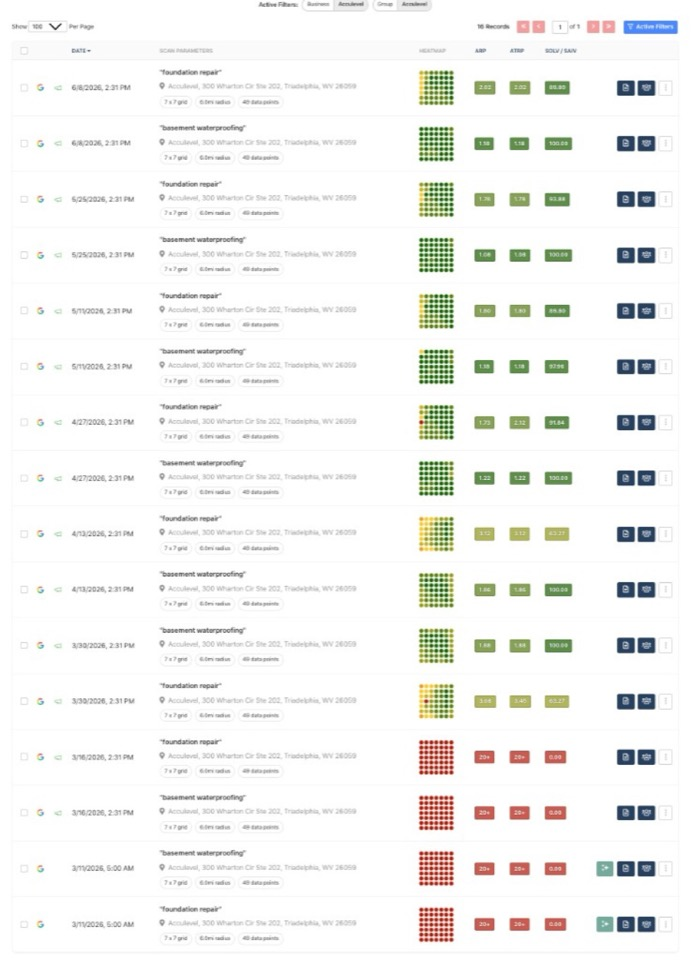
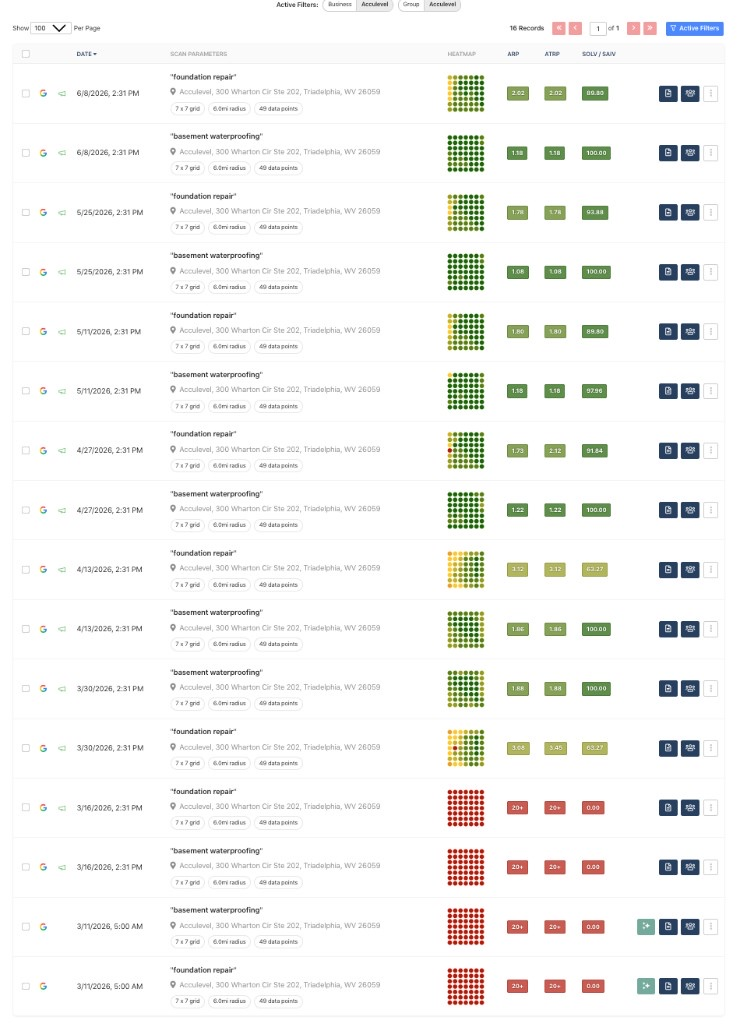
Sharpen Acculevel scan assets and add Affiliate vs Partner presentation modes.
Use full-resolution LocalFalcon screenshots with contain sizing, and differentiate affiliate (20% / 12 months) from partner (15% residual while active).

diff --git a/assets/jcp-sales-tool/app.js b/assets/jcp-sales-tool/app.js
@@ -1,7 +1,8 @@
 (() => {
   const cfg = window.JCP_SALES_TOOL || {};
   const assetBase = (cfg.assetBase || "").replace(/\/$/, "");
-  const img = (name) => `${assetBase}/assets/${name}`;
+  const assetVer = "20260812c";
+  const img = (name) => `${assetBase}/assets/${name}?v=${assetVer}`;
   const plans = cfg.plans || {};
   const reviews = Array.isArray(cfg.reviews) ? cfg.reviews : [];
   const cta = cfg.cta || {};
@@ -24,7 +25,7 @@
   const defaults = {
     prospectName: prospectSeed.company || "",
     repName: (cfg.presenter && cfg.presenter.name) || "",
-    mode: prospectSeed.mode === "partner" ? "partner" : "contractor",
+    mode: ["partner", "affiliate"].includes(prospectSeed.mode) ? prospectSeed.mode : "contractor",
     trade: prospectSeed.trade || "Home services",
     showPricing: cfg.flags ? !!cfg.flags.showPricing : true,
     showAcculevel: cfg.flags ? !!cfg.flags.showAcculevel : true,
@@ -179,29 +180,84 @@
     };
   }
 
+  function isPartner() {
+    return state.mode === "partner";
+  }
+  function isAffiliate() {
+    return state.mode === "affiliate";
+  }
+  function isChannelPartner() {
+    return isPartner() || isAffiliate();
+  }
+
+  /** Affiliate = 20% x 12 months. Partner = 15% residual while customer stays active. */
+  function commissionRows() {
+    const rows = [
+      { plan: "Starter", monthly: 99 },
+      { plan: "Scale", monthly: 249 },
+      { plan: "Enterprise", monthly: 399 },
+    ];
+    if (isAffiliate()) {
+      return rows.map((r) => ({
+        ...r,
+        rate: "20%",
+        monthlyPay: `$${(r.monthly * 0.2).toFixed(2)}`,
+        term: "12 months",
+        potential: `$${(r.monthly * 0.2 * 12).toFixed(2)}`,
+      }));
+    }
+    return rows.map((r) => ({
+      ...r,
+      rate: "15%",
+      monthlyPay: `$${(r.monthly * 0.15).toFixed(2)}`,
+      term: "While customer is active",
+      potential: `$${(r.monthly * 0.15).toFixed(2)}/mo ongoing`,
+    }));
+  }
+
   function renderCover() {
-    const partner = state.mode === "partner";
+    const partner = isPartner();
+    const affiliate = isAffiliate();
     const title = partner
       ? `Give every client a proof engine that creates <em>more calls.</em>`
-      : `Turn every completed job into <em>more calls.</em>`;
-    const company = state.prospectName || (partner ? "your clients" : "your team");
+      : affiliate
+        ? `Earn recurring commissions by helping contractors turn jobs into <em>marketing.</em>`
+        : `Turn every completed job into <em>more calls.</em>`;
+    const company = state.prospectName || (partner ? "your clients" : affiliate ? "contractors you know" : "your team");
+    const body = partner
+      ? `${esc(company)} already take job photos. JobCapturePro turns that activity into website, Google, social, and directory proof — plus an on-site QR review ask — so you can deliver visibility without becoming their content team.`
+      : affiliate
+        ? `Refer contractors and home-service businesses to JobCapturePro and earn <strong>20% recurring commission for 12 months</strong> when they become paid customers. It’s an easy recommend: they already finish jobs and take photos — JCP makes that proof show up online.`
+        : `${esc(company)} already takes job photos. JobCapturePro turns them into Google updates, website content, social posts, and directory listings — then your crew asks for a review on site with a QR code.`;
+    const eyebrow = partner ? "Partner walkthrough" : affiliate ? "Affiliate program" : "Product walkthrough";
     return `<section class="chapter cover">
     <img class="cover-image" src="${img("jcp-product-visual.png")}" alt="JobCapturePro completed-job publishing workflow" />
     <div class="cover-copy">
-      <span class="eyebrow">${partner ? "Partner walkthrough" : "Product walkthrough"}</span>
+      <span class="eyebrow">${eyebrow}</span>
       <h1>${title}</h1>
-      <p>${esc(company)} already takes job photos. JobCapturePro turns them into Google updates, website content, social posts, and directory listings — then your crew asks for a review on site with a QR code.</p>
-      <p class="cover-integrations">Already on ${esc(integrationLine())}? We integrate with the tools your crews already use.</p>
+      <p>${body}</p>
+      <p class="cover-integrations">Already on ${esc(integrationLine())}? We integrate with the tools crews already use.</p>
       <button class="start-btn" type="button" data-go="1">See how it works →</button>
     </div>
-    <div class="cover-callout">${state.repName ? `Presented by ${esc(state.repName)} · ` : ""}${esc(state.prospectName || (partner ? "Partner overview" : "Prospect presentation"))}</div>
+    <div class="cover-callout">${state.repName ? `Presented by ${esc(state.repName)} · ` : ""}${esc(state.prospectName || (partner ? "Partner overview" : affiliate ? "Affiliate overview" : "Prospect presentation"))}</div>
   </section>`;
   }
 
   function renderProblem() {
-    const partner = state.mode === "partner";
+    const partner = isPartner();
+    const affiliate = isAffiliate();
+    const title = partner
+      ? "Your clients already have the content."
+      : affiliate
+        ? "The people you refer already have the content."
+        : "You already have the content.";
+    const intro = partner
+      ? `Completed jobs rarely become consistent, location-specific marketing for the ${esc(state.trade.toLowerCase())} clients you serve.`
+      : affiliate
+        ? `Most ${esc(state.trade.toLowerCase())} teams already finish jobs and take photos — but that proof never becomes website content, Google activity, directory presence, or a timely review ask.`
+        : `For ${esc(state.trade.toLowerCase())} teams, completed jobs rarely make it from the camera roll to the places customers decide who to call.`;
     return `<section class="chapter content-pad">
-    ${chapterHeader(2, "The missed opportunity", partner ? "Your clients already have the content." : "You already have the content.", partner ? `Completed jobs rarely become consistent, location-specific marketing for the ${esc(state.trade.toLowerCase())} clients you serve.` : `For ${esc(state.trade.toLowerCase())} teams, completed jobs rarely make it from the camera roll to the places customers decide who to call.`)}
+    ${chapterHeader(2, "The missed opportunity", title, intro)}
     <div class="problem-layout">
       <div class="problem-statement">One real job can become proof in <em>five places.</em></div>
       <div class="channel-stack">
@@ -302,7 +358,7 @@
       full: img("acculevel-localfalcon-monroe-scans.webp"),
       fullFallback: img("acculevel-localfalcon-monroe-scans.jpg"),
       headline: "0% → ~96%",
-      detail: "Monroe scans show the same arc: March grids at 0% SoLV, then steady gains through spring. Latest supplied scans reached approximately 96% SoLV for basement waterproofing and ~84% for foundation repair.",
+      detail: "Monroe LocalFalcon scans move from all-red 0% SoLV in March 2026 to strong green coverage by June — latest supplied scans reached about 96% SoLV for basement waterproofing and ~84% for foundation repair.",
     },
   };
 
@@ -377,23 +433,60 @@
   function renderPlan() {
     const plan = recommendPlan();
     const pricingLink = cfg.pricingUrl || "/pricing/";
-    const partnerRollout =
-      state.mode === "partner"
-        ? `<aside class="recommendation">
-        <span class="plan-kicker">Recommended motion</span><h3>Partner rollout</h3><p class="plan-reason">Prove one repeatable client workflow, document the result, then expand.</p>
-        <div class="partner-path"><div class="partner-step"><span>Phase 01</span><h4>Pilot</h4><p>Select a focused cohort and confirm integrations.</p></div><div class="partner-step"><span>Phase 02</span><h4>Prove</h4><p>Track check-ins, publishing, reviews, and Maps visibility.</p></div><div class="partner-step"><span>Phase 03</span><h4>Expand</h4><p>Turn the working motion into a repeatable partner offer.</p></div></div>
-        <p class="plan-note">Partner economics require a scoped proposal.</p>
-      </aside>`
-        : `<aside class="recommendation">
+    const referralUrl = "/referral-program/";
+    const rows = commissionRows();
+    const commissionTable = `<div class="commission-table" role="table" aria-label="Commission examples">
+        <div class="commission-row commission-row--head" role="row"><span>Plan</span><span>Price</span><span>Your cut</span><span>Term</span></div>
+        ${rows.map((r) => `<div class="commission-row" role="row"><span>${r.plan}</span><span>$${r.monthly}/mo</span><span>${r.monthlyPay}/mo</span><span>${r.term}</span></div>`).join("")}
+      </div>`;
+
+    let aside;
+    if (isAffiliate()) {
+      aside = `<aside class="recommendation">
+        <span class="plan-kicker">Affiliate program</span><h3>20% for 12 months</h3>
+        <p class="plan-reason">Share your referral link. When a contractor becomes a paid customer, you earn 20% recurring commission for 12 months on that account.</p>
+        ${commissionTable}
+        <p class="plan-note">Commissions apply to active paid customers under program terms. Prices stay current on <a href="${esc(pricingLink)}" target="_blank" rel="noopener">our pricing page</a>.</p>
+        <a class="plan-cta" href="${esc(referralUrl)}" target="_blank" rel="noopener">Join the referral program →</a>
+      </aside>`;
+    } else if (isPartner()) {
+      aside = `<aside class="recommendation">
+        <span class="plan-kicker">Strategic partner</span><h3>15% for the life of the account</h3>
+        <p class="plan-reason">Partners who sell and support JobCapturePro with clients earn <strong>15% recurring commission for as long as the customer remains an active paid account</strong> — healthier than 20% forever, stronger than a 12-month affiliate cut when you’re doing the heavy lifting.</p>
+        ${commissionTable}
+        <div class="partner-path" style="margin-top:16px"><div class="partner-step"><span>Phase 01</span><h4>Pilot</h4><p>Select a focused client cohort and confirm integrations.</p></div><div class="partner-step"><span>Phase 02</span><h4>Prove</h4><p>Track check-ins, publishing, reviews, and Maps visibility.</p></div><div class="partner-step"><span>Phase 03</span><h4>Expand</h4><p>Turn the working motion into a repeatable partner offer.</p></div></div>
+        <p class="plan-note">Enhanced partner terms are scoped by fit and volume. Apply via the referral program and note you’re a strategic partner.</p>
+        <a class="plan-cta" href="${esc(referralUrl)}" target="_blank" rel="noopener">Apply as a partner →</a>
+      </aside>`;
+    } else {
+      aside = `<aside class="recommendation">
         <span class="plan-kicker">Recommended fit</span><h3>${plan.name}</h3>${state.showPricing ? `<p class="price">${plan.price} <span>/ month</span></p>` : ""}<p class="plan-reason">${plan.reason}</p>
         <ul class="included">${(plan.includes || []).map((x) => `<li>${esc(x)}</li>`).join("")}</ul>
         <p class="plan-note">${state.showPricing ? `Additional locations: $${cfg.extraLocationFee || 100} each. ` : ""}Prices stay current on <a href="${esc(pricingLink)}" target="_blank" rel="noopener">our pricing page</a>.</p>
         <a class="plan-cta" href="${esc(cta.primaryUrl || pricingLink)}" target="_blank" rel="noopener">${esc(cta.primaryLabel || "Start free 14-day trial")} →</a>
       </aside>`;
+    }
+
+    const headline = isAffiliate()
+      ? "Affiliate economics"
+      : isPartner()
+        ? "Partner economics"
+        : "Recommended plan";
+    const sub = isAffiliate()
+      ? "Earn when contractors you refer become customers."
+      : isPartner()
+        ? "Earn while you sell and support the proof engine."
+        : "Match the plan to your workflow.";
+    const lead = isAffiliate()
+      ? "Simple referral economics — 20% recurring for 12 months on paid accounts."
+      : isPartner()
+        ? "For agencies and consultants doing real selling: residual commission while the customer stays active."
+        : "We’ll recommend a plan based on locations and how automated you want this. Prices stay current on our pricing page.";
+
     return `<section class="chapter content-pad">
-    ${chapterHeader(8, state.mode === "partner" ? "Partner rollout" : "Recommended plan", state.mode === "partner" ? "Start focused. Prove the workflow. Expand." : "Match the plan to your workflow.", state.mode === "partner" ? "A controlled rollout connects product, client workflow, and reporting before you expand." : "We’ll recommend a plan based on locations and how automated you want this. Prices stay current on our pricing page.")}
+    ${chapterHeader(8, isAffiliate() || isPartner() ? "Earn with JCP" : "Plan", headline, sub + " " + lead)}
     <div class="plan-layout">
-      <div class="plan-controls">
+      <div class="plan-controls ${isChannelPartner() ? "rep-only" : ""}">
         <div class="field"><span class="field-label">Company stage</span><div class="choice-row">${Object.entries(segments)
           .map(([key, item]) => radioChoice("planSegment", key, item.label, state.segment === key))
           .join("")}</div></div>
@@ -401,7 +494,7 @@
         <div class="field"><span class="field-label">Workflow</span><div class="choice-row">${checkboxChoice("automation", "yes", "Automate from CRM", state.automation)}${checkboxChoice("customIntegration", "yes", "Custom integration / API", state.customIntegration)}</div></div>
         <div class="field"><span class="field-label">Important outcomes</span><div class="choice-row">${["Local visibility", "More reviews", "Faster follow-up", "Consistent content", "Multi-location control"].map((x) => checkboxChoice("planPriorities", x, x, state.priorities.includes(x))).join("")}</div></div>
       </div>
-      ${partnerRollout}
+      ${aside}
     </div>
   </section>`;
   }
@@ -452,15 +545,39 @@
   }
 
   function renderClose() {
-    const company = state.prospectName || "your business";
+    const company = state.prospectName || (isChannelPartner() ? "your network" : "your business");
     const gap = calcGap();
     const plan = recommendPlan();
     const today = new Intl.DateTimeFormat("en", { month: "short", day: "numeric", year: "numeric" }).format(new Date());
-    const path = state.mode === "partner" ? "Partner pilot" : plan.name;
-    const pathDetail = state.mode === "partner" ? "Start with a focused client cohort, prove the workflow, then expand." : plan.reason;
-    const logoSrc = (cfg.presenter && cfg.presenter.logoUrl) || img("jcp-logo-dark.png");
+    const logo = (cfg.presenter && cfg.presenter.logoUrl) || img("jcp-logo-dark.png");
+    let path;
+    let pathDetail;
+    let primaryHref = cta.primaryUrl || "#";
+    let primaryLabel = cta.primaryLabel || "Start free 14-day trial";
+    let secondaryHref = cta.secondaryUrl || cfg.pricingUrl || "/pricing/";
+    let secondaryLabel = cta.secondaryLabel || "See live pricing";
+
+    if (isAffiliate()) {
+      path = "Affiliate referral program";
+      pathDetail = "Earn 20% recurring commission for 12 months on paid referrals.";
+      primaryHref = "/referral-program/";
+      primaryLabel = "Join the referral program";
+      secondaryHref = "/demo/";
+      secondaryLabel = "Share the live demo";
+    } else if (isPartner()) {
+      path = "Strategic partner path";
+      pathDetail = "15% recurring for as long as referred customers stay active — apply as a partner and scope the rollout.";
+      primaryHref = "/referral-program/";
+      primaryLabel = "Apply as a partner";
+      secondaryHref = cfg.pricingUrl || "/pricing/";
+      secondaryLabel = "See live pricing";
+    } else {
+      path = plan.name;
+      pathDetail = plan.reason;
+    }
+
     return `<section class="chapter content-pad">
-    ${chapterHeader(10, "Next steps", "A clear path forward.", "Here’s a one-page summary of what we covered — plus a free trial when you’re ready.")}
+    ${chapterHeader(10, "Next steps", "A clear path forward.", isAffiliate() ? "Get your referral link and start sharing JobCapturePro with contractors who already take job photos." : isPartner() ? "Apply as a strategic partner, pilot one client workflow, then expand." : "Here’s a one-page summary of what we covered — plus a free trial when you’re ready.")}
     <div class="close-layout">
       <div class="close-notes rep-only">
         <div class="field"><label for="nextStep">Agreed next step</label><textarea id="nextStep">${esc(state.nextStep)}</textarea></div>
@@ -468,15 +585,15 @@
         <div class="field"><label for="salesNotes">Call notes</label><textarea id="salesNotes" placeholder="Decision criteria, stakeholders, integration questions…">${esc(state.salesNotes)}</textarea></div>
       </div>
       <article class="recap" id="recap">
-        <div class="recap-top"><div class="brand"><img src="${logoSrc}" alt="JobCapturePro" /></div><span class="recap-date">${today}</span></div>
-        <h3>${esc(state.prospectName || "Your business")} · summary</h3>
-        <h4>What we covered</h4><p>${esc(company)} completes about <strong>${gap.monthly} jobs per month</strong>. Roughly <strong>${gap.unused}</strong> may not be consistently published as public proof today. Focus areas: ${esc(state.priorities.join(", ") || "visibility and proof consistency")}.</p>
-        <h4>Recommended path</h4><p><strong>${path}${state.mode === "contractor" && state.showPricing ? ` · ${plan.price}/month` : ""}.</strong> ${pathDetail}</p>
+        <div class="recap-top"><div class="brand"><img src="${logo}" alt="JobCapturePro" /></div><span class="recap-date">${today}</span></div>
+        <h3>${esc(state.prospectName || (isAffiliate() ? "Affiliate" : isPartner() ? "Partner" : "Your business"))} · summary</h3>
+        <h4>What we covered</h4><p>${isChannelPartner() ? `JobCapturePro turns completed ${esc(state.trade.toLowerCase())} jobs into website, Google, social, and directory proof — plus an on-site QR review ask.` : `${esc(company)} completes about <strong>${gap.monthly} jobs per month</strong>. Roughly <strong>${gap.unused}</strong> may not be consistently published as public proof today.`} Focus areas: ${esc(state.priorities.join(", ") || "visibility and proof consistency")}.</p>
+        <h4>Recommended path</h4><p><strong>${path}${!isChannelPartner() && state.showPricing ? ` · ${plan.price}/month` : ""}.</strong> ${pathDetail}</p>
         <h4>Suggested next step</h4><p id="recapNextStep">${esc(state.nextStep || defaults.nextStep)}${state.followUpDate ? ` Target: ${esc(state.followUpDate)}.` : ""}</p>
         <div id="recapNotesWrap" class="rep-only" ${state.salesNotes ? "" : "hidden"}><h4>Notes</h4><p id="recapNotes">${esc(state.salesNotes)}</p></div>
         <div class="recap-ctas">
-          <a class="plan-cta" href="${esc(cta.primaryUrl || "#")}" target="_blank" rel="noopener">${esc(cta.primaryLabel || "Start free 14-day trial")}</a>
-          <a class="plan-cta plan-cta--secondary" href="${esc(cta.secondaryUrl || cfg.pricingUrl || "/pricing/")}" target="_blank" rel="noopener">${esc(cta.secondaryLabel || "See live pricing")}</a>
+          <a class="plan-cta" href="${esc(primaryHref)}" target="_blank" rel="noopener">${esc(primaryLabel)}</a>
+          <a class="plan-cta plan-cta--secondary" href="${esc(secondaryHref)}" target="_blank" rel="noopener">${esc(secondaryLabel)}</a>
           <button class="plan-cta plan-cta--secondary" type="button" id="downloadPdfBtn">Download PDF summary</button>
         </div>
         <div class="recap-actions rep-only"><button class="copy-btn" id="copyRecap" type="button">Copy summary</button></div>
@@ -500,7 +617,7 @@
     const prospectInput = $("#prospectName");
     if (prospectInput) prospectInput.value = state.prospectName;
     const metaLabel = document.querySelector(".call-meta label");
-    if (metaLabel) metaLabel.textContent = state.mode === "partner" ? "Partner" : "Prospect";
+    if (metaLabel) metaLabel.textContent = isPartner() ? "Partner" : isAffiliate() ? "Affiliate" : "Prospect";
     document.querySelectorAll("[data-mode]").forEach((button) => button.classList.toggle("active", button.dataset.mode === state.mode));
     const list = chapterList();
     $("#progressLabel").textContent = `${String(state.chapter + 1).padStart(2, "0")} / ${String(list.length).padStart(2, "0")}`;

diff --git a/assets/jcp-sales-tool/styles.css b/assets/jcp-sales-tool/styles.css
@@ -336,7 +336,7 @@ input[type="range"] { width: 100%; accent-color: var(--ink); }
   border: 1px solid var(--line);
   border-radius: 10px;
   overflow: hidden;
-  background: var(--white);
+  background: #f3f4f6;
   cursor: zoom-in;
   text-align: left;
 }
@@ -345,9 +345,10 @@ input[type="range"] { width: 100%; accent-color: var(--ink); }
   display: block;
   width: 100%;
   height: auto;
-  max-height: min(58vh, 520px);
-  object-fit: cover;
+  max-height: min(70vh, 720px);
+  object-fit: contain;
   object-position: top center;
+  image-rendering: -webkit-optimize-contrast;
 }
 .scan-preview-hint {
   position: absolute;
@@ -524,10 +525,38 @@ body.is-presenting #scriptBtn {
   text-decoration: none;
 }
 
-button.plan-cta {
-  cursor: pointer;
-  font: inherit;
+.commission-table {
+  margin: 14px 0;
+  border: 1px solid var(--line);
+  border-radius: 10px;
+  overflow: hidden;
+  background: var(--white);
 }
+.commission-row {
+  display: grid;
+  grid-template-columns: 1.1fr 0.9fr 1fr 1.2fr;
+  gap: 8px;
+  padding: 10px 12px;
+  font-size: 12px;
+  border-top: 1px solid var(--line);
+}
+.commission-row:first-child { border-top: 0; }
+.commission-row--head {
+  background: #f3f4f6;
+  font-weight: 800;
+  text-transform: uppercase;
+  letter-spacing: .03em;
+  font-size: 10px;
+  color: #6b7280;
+}
+.plan-layout:has(.plan-controls.rep-only) {
+  grid-template-columns: 1fr;
+}
+body.is-presenting .plan-layout:has(.plan-controls.rep-only) .recommendation {
+  max-width: 720px;
+}
+
+.mode-switch button { white-space: nowrap; }
 
 /* Present mode — screenshare clean */
 body.is-presenting .sidebar,

diff --git a/inc/sales-tool/meta.php b/inc/sales-tool/meta.php
@@ -110,7 +110,7 @@ function jcp_sales_tool_get_settings( int $post_id ): array {
 	$out['presenter_type']      = sanitize_key( (string) ( $out['presenter_type'] ?? 'internal' ) );
 	$out['presenter_name']      = sanitize_text_field( (string) ( $out['presenter_name'] ?? '' ) );
 	$out['presenter_logo_id']   = absint( $out['presenter_logo_id'] ?? 0 );
-	$out['mode']                = in_array( (string) ( $out['mode'] ?? '' ), [ 'contractor', 'partner' ], true ) ? (string) $out['mode'] : 'contractor';
+	$out['mode']                = in_array( (string) ( $out['mode'] ?? '' ), [ 'contractor', 'affiliate', 'partner' ], true ) ? (string) $out['mode'] : 'contractor';
 	$out['company']             = sanitize_text_field( (string) ( $out['company'] ?? '' ) );
 	$out['trade']               = sanitize_text_field( (string) ( $out['trade'] ?? 'Home services' ) );
 	$out['jobs_per_week']       = max( 1, absint( $out['jobs_per_week'] ?? 20 ) );
@@ -253,7 +253,8 @@ function jcp_sales_tool_render_meta_box( WP_Post $post ): void {
 			<label for="jcp_st_mode"><?php esc_html_e( 'Story mode', 'jcp-core' ); ?></label>
 			<select name="jcp_st[mode]" id="jcp_st_mode">
 				<option value="contractor" <?php selected( $s['mode'], 'contractor' ); ?>><?php esc_html_e( 'Contractor (direct)', 'jcp-core' ); ?></option>
-				<option value="partner" <?php selected( $s['mode'], 'partner' ); ?>><?php esc_html_e( 'Agency / partner', 'jcp-core' ); ?></option>
+				<option value="affiliate" <?php selected( $s['mode'], 'affiliate' ); ?>><?php esc_html_e( 'Affiliate / referral', 'jcp-core' ); ?></option>
+				<option value="partner" <?php selected( $s['mode'], 'partner' ); ?>><?php esc_html_e( 'Agency / strategic partner', 'jcp-core' ); ?></option>
 			</select>
 		</div>
 		<div>
@@ -417,7 +418,8 @@ function jcp_sales_tool_save_meta( int $post_id ): void {
 	$out['presenter_type']      = sanitize_key( (string) ( $raw['presenter_type'] ?? 'internal' ) );
 	$out['presenter_name']      = sanitize_text_field( (string) ( $raw['presenter_name'] ?? '' ) );
 	$out['presenter_logo_id']   = absint( $raw['presenter_logo_id'] ?? 0 );
-	$out['mode']                = ( ( $raw['mode'] ?? '' ) === 'partner' ) ? 'partner' : 'contractor';
+	$mode_raw = sanitize_key( (string) ( $raw['mode'] ?? 'contractor' ) );
+	$out['mode'] = in_array( $mode_raw, [ 'contractor', 'affiliate', 'partner' ], true ) ? $mode_raw : 'contractor';
 	$out['company']             = sanitize_text_field( (string) ( $raw['company'] ?? '' ) );
 	$out['trade']               = sanitize_text_field( (string) ( $raw['trade'] ?? 'Home services' ) );
 	$out['jobs_per_week']       = max( 1, absint( $raw['jobs_per_week'] ?? 20 ) );

diff --git a/inc/sales-tool/admin-script.php b/inc/sales-tool/admin-script.php
@@ -89,11 +89,11 @@ function jcp_sales_tool_call_script_chapters(): array {
 		],
 		[
 			'id'    => 'plan',
-			'label' => '08 · Plan',
-			'goal'  => 'Recommend a plan from live pricing. Link out — don’t invent prices.',
-			'say'   => 'Based on locations and how automated you want this, [Starter / Scale / Enterprise] is the cleanest fit. Pricing stays current on our pricing page, and you can start with a free 14-day trial — no credit card.',
-			'ask'   => 'Does that match how many locations and integrations you need in the first 30 days?',
-			'avoid' => 'Don’t negotiate custom pricing live without a scoped proposal.',
+			'label' => '08 · Plan / earn',
+			'goal'  => 'Match the audience: contractor plan, affiliate economics, or partner residual.',
+			'say'   => 'Contractor: recommend Starter/Scale/Enterprise from live pricing. Affiliate: 20% recurring for 12 months when someone you refer becomes a paid customer. Partner: for agencies doing real selling and support — 15% recurring for as long as that customer stays active. That’s stronger than a 12-month cut without promising 20% forever.',
+			'ask'   => 'Are you referring casually, or will you sell and support this with clients?',
+			'avoid' => 'Don’t invent custom commission rates live. Point partners to apply and scope terms.',
 		],
 		[
 			'id'    => 'objections',

diff --git a/templates/sales-tool/shell.php b/templates/sales-tool/shell.php
@@ -36,6 +36,7 @@ if ( ! empty( $config['presenter']['logoUrl'] ) ) {
       <div class="top-actions">
         <div class="mode-switch" aria-label="<?php esc_attr_e( 'Presentation audience', 'jcp-core' ); ?>">
           <button data-mode="contractor" type="button"><?php esc_html_e( 'Contractor', 'jcp-core' ); ?></button>
+          <button data-mode="affiliate" type="button"><?php esc_html_e( 'Affiliate', 'jcp-core' ); ?></button>
           <button data-mode="partner" type="button"><?php esc_html_e( 'Partner', 'jcp-core' ); ?></button>
         </div>
         <button class="quiet-btn" id="customizeBtn" type="button"><?php esc_html_e( 'Customize', 'jcp-core' ); ?></button>
